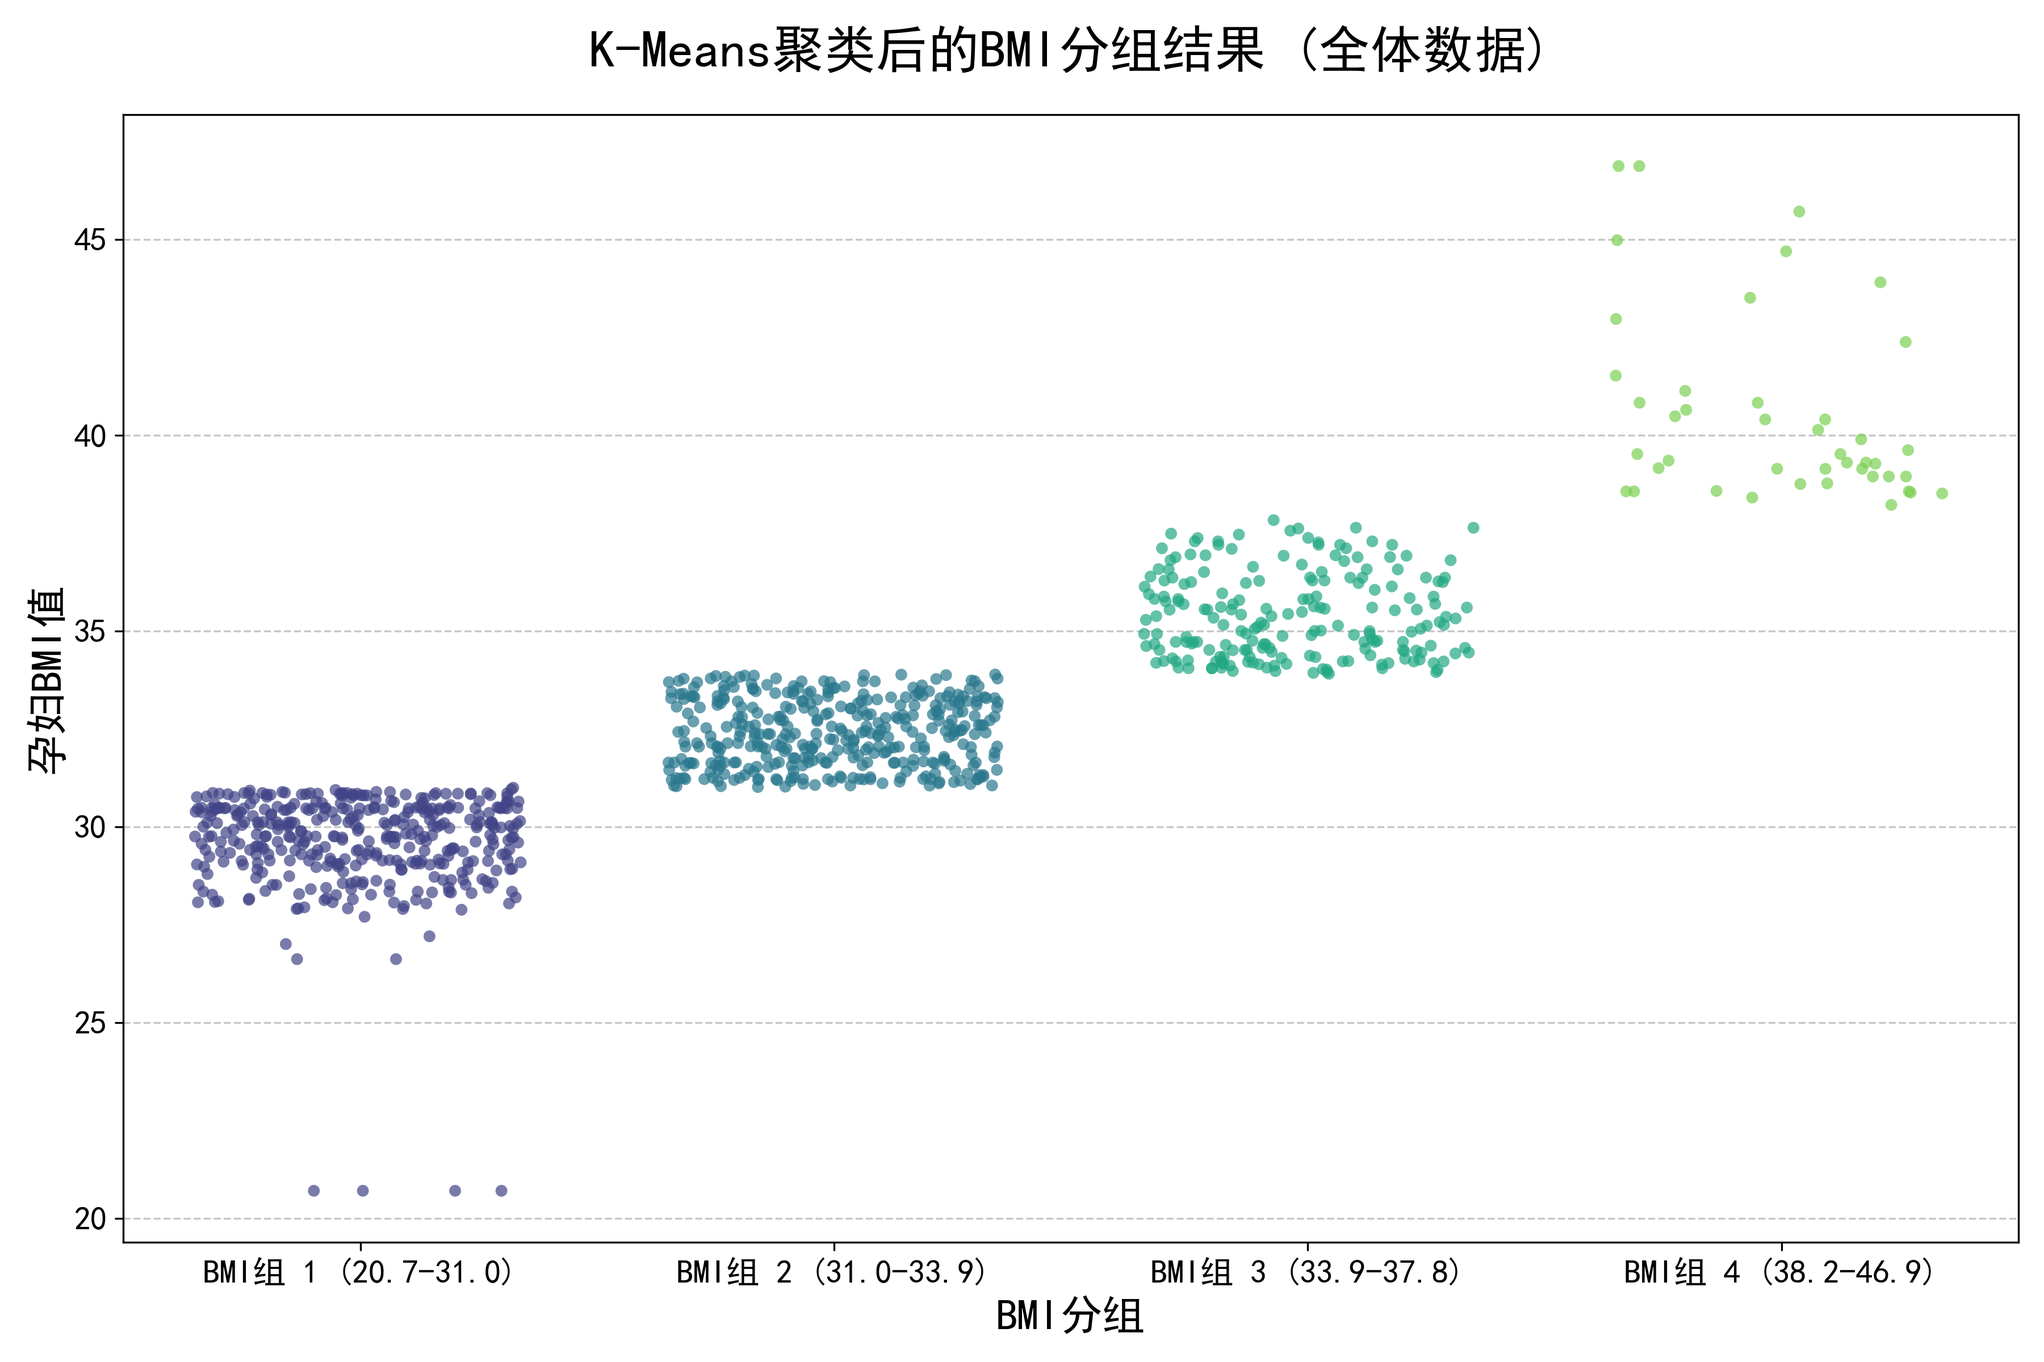
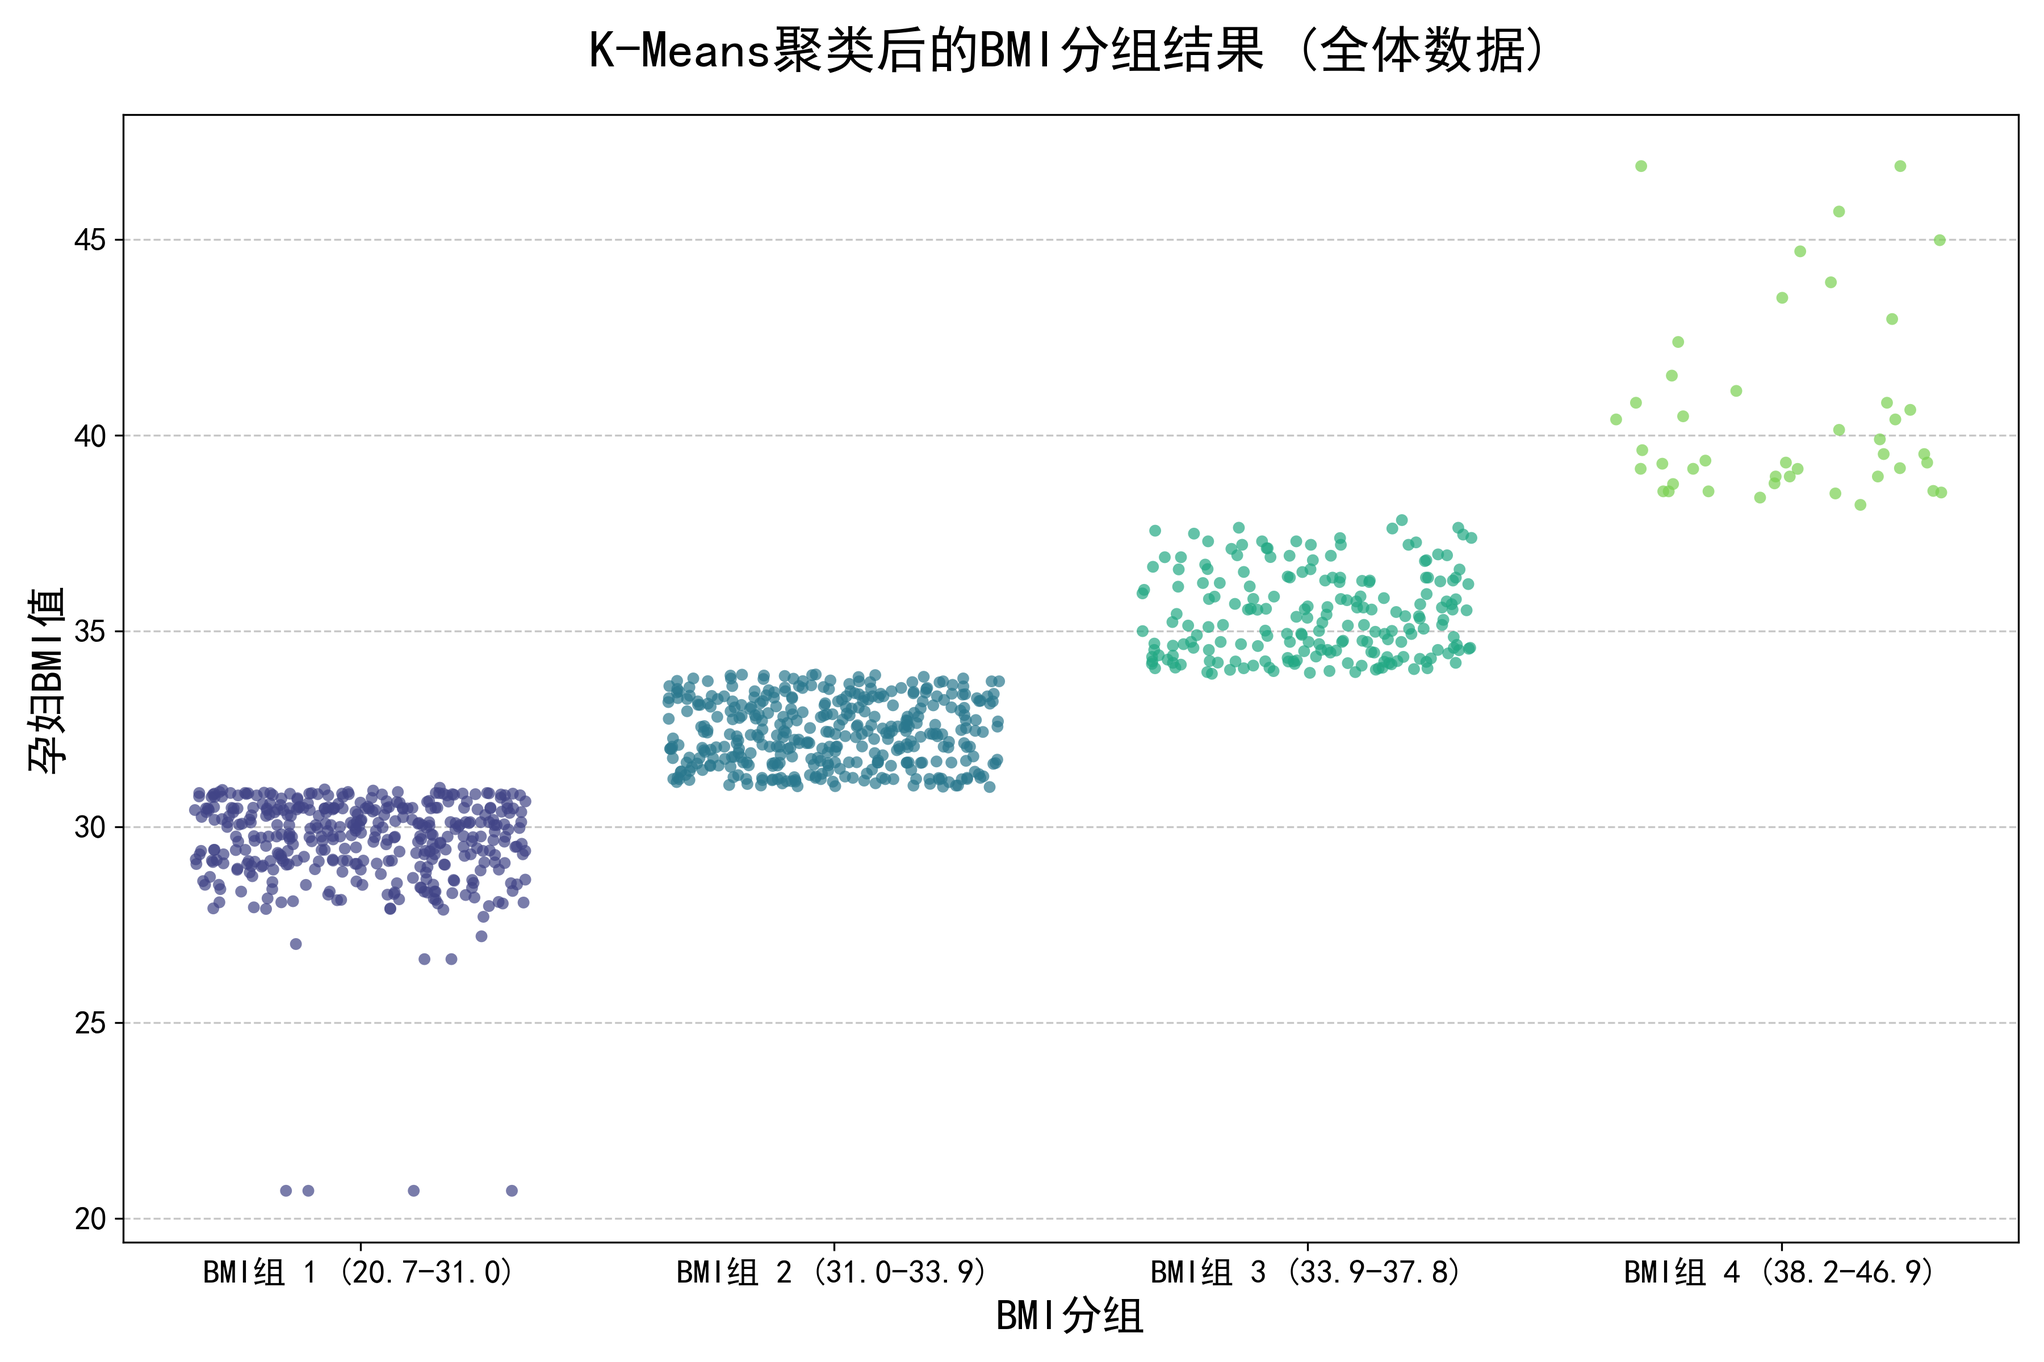
'第三问'

diff --git a/代码细节文档/3.md b/代码细节文档/3.md
@@ -1,159 +1,114 @@
 
-# C题第三问：代码细节与模型解析文档 
+# C题第三问：代码细节与模型解析文档 (最终成果版)
 
-## 引言：问题重述与策略升级
+## 引言：问题重述与策略总览
 
-第三问的核心目标是在问题一、二的基础上，将**身高、体重、年龄、BMI**等所有提及的因素全部纳入决策框架，为通过BMI划分的不同孕妇群体，提供一个兼顾**“风险最小化”**与**“Y染色体浓度达标比例最大化”**这两个核心目标的最优NIPT时点建议。
+第三问的核心目标是在综合考虑**身高、体重、年龄、BMI**等全部因素的基础上，为通过BMI划分的不同孕妇群体，提供一个兼顾**“风险最小化”**与**“Y染色体浓度达标比例最大化”**这两个核心目标的最优NIPT时点建议。
 
-其根本挑战在于，如何在数学上严谨地“综合考虑”所有这些因素（特别是 `身高`、`体重`和 `BMI`之间存在的高度相关性），同时避免模型因多重共线性而失效。
-
-为应对此挑战，我们设计并实现了一套**“‘划分’与‘预测’职责分离”**的高级建模框架。该框架通过为分组和预测两个环节分别配置最优的数据集和模型，确保了分组的全面性和预测的稳健性，最终通过带约束的多目标优化方法，给出了科学、可靠的决策建议。
+为实现此目标，我们采用了**“‘划分’与‘预测’职责分离”**的高级建模框架。该框架首先在全体样本上进行客观分组，然后在高质量数据子集上训练一个稳健的预测模型，最后将两者结合，通过带约束的多目标优化方法求解最优策略。这一策略确保了分组的全面性、预测的准确性和结论的可靠性。
 
 ---
 
-## 一、 建模策略总览：“职责分离”框架
+## 一、 分组模块：基于全体样本的K-Means聚类与最优K值确定
 
-我们将整个解决方案构建在两个既分工明确又紧密协作的模型之上，并通过一个多目标优化框架将其整合。
-
-1. **分组模块 (Grouping Module)**
-
-   * **任务**: 将具有相似BMI特征的孕妇划分为有意义的群体。
-   * **核心思想**: 确保分组的**全面性**，覆盖数据集中所有类型的孕妇，不错漏任何一种情况。
-   * **实现**: 在**全体**数据集上，**仅使用 `孕妇BMI`进行K-Means聚类**。
-2. **预测模块 (Prediction Module)**
-
-   * **任务**: 精确预测任意个体在任意时间点的Y染色体浓度。
-   * **核心思想**: 确保预测规律的**稳健性**，避免模型受到极端离群点的干扰，学习到最具有普适性的生理变化规律。
-   * **实现**: 在通过严格的跨多维度IQR离群点剔除后得到的**高质量干净子集**上，训练一个包含全部因素的**非线性混合效应模型 (NLME)**。
-
-**整合框架 (Integration Framework)**：我们将采用**ε-约束法 (Epsilon-Constraint Method)**进行整合。即：对“分组模块”划分出的每一个**全体**孕妇群组，我们利用“预测模块”训练出的**稳健**预测模型作为计算引擎，来求解在该组上“风险最小化”和“达标率最大化”的多目标优化问题。
-
----
-
-## 二、 分组模块：基于全体样本的K-Means聚类
-
-此环节严格遵循“覆盖所有情况”的原则，确保数据中的每一位孕妇都被纳入到一个明确的BMI分组中。
+此环节的目标是，在覆盖所有样本的情况下，将孕妇根据其最核心的特征BMI进行科学、客观的分组。
 
 * **算法选择**: K-Means聚类算法。
 * **聚类维度**: 严格遵循题目要求，**仅使用 `孕妇BMI`** 这一维特征进行聚类。
-* **数据集**: 使用包含全部998条记录的完整数据集 (`df_male_full`)。
+* **数据集**: 使用包含全部998条记录的完整数据集 (`df_male_full`)，确保每一位孕妇都被纳入分组。
 * **最优K值确定**:
-  * **方法**: 我们采用标准的**肘部法则 (Elbow Method)**来科学地确定最优分组数K。该方法通过计算不同K值下的组内平方和（Sum of Squared Errors, SSE），寻找SSE下降速率由快变缓的“肘点”。SSE的计算公式为：
+  * **方法**: 我们采用**以最终优化目标为导向**的K值选择方法。即，遍历不同的分组数K（从2到8），对每种分组方案执行完整的优化流程，并计算在该方案下，全体孕妇在 `Epsilon=0.95`约束下的**加权平均总风险**。选择使该全局风险最小的K值作为最优解。
+  * **计算公式**:
     $$
-    E(K) = \sum_{i=1}^{K} \sum_{\mathbf{x} \in C_i} ||\mathbf{x} - \mu_i||^2
+    R_{total}]_{K} = \sum_{i=1}^{K} \frac{n_i}{N} \cdot R_i^*(\epsilon=0.95)
     $$
 
-    其中：- $K$ 为聚类的簇数。
-    - $C_i$ 为第 $i$ 个簇的样本集合。
-    - $\mathbf{x}$ 为簇 $C_i$ 中的一个样本点（此处为一维的BMI值）。
-    - $\mu_i$ 为簇 $C_i$ 的质心（即该簇所有样本BMI的均值）。
-  * **图表支撑与结果**:
-    * **图_第三问_KMeans手肘图.png**: 此图横坐标为聚类数量K，纵坐标为SSE。从图中可以清晰地观察到，当K=3时，曲线出现一个明显的拐点，即“手肘”。在K>3后，SSE的下降幅度显著减小。因此，我们选择 **K=3** 作为最优分组数。
-* **分组结果**:
-  * **图_第三问_KMeans聚类结果.png**: 此图以散点图的形式直观展示了K-Means算法在全体数据上划分出的三个BMI组别的分布情况。
-  * **最终分组**: 根据K=3的聚类结果，我们将全体孕妇划分为以下三个特征鲜明的群组：
-    * **BMI组 1 (范围: 20.7-31.8)**
-    * **BMI组 2 (范围: 31.8-35.9)**
-    * **BMI组 3 (范围: 35.9-46.9)**
+    其中，$E[R_{total}]_{K}$ 是在K个分组方案下的加权平均总风险，$n_i$是第$i$组的人数，$N$是总人数，$R_i^*$是第$i$组在约束下的最小风险。
+  * **运行结果**:
+    ```
+    不同K值对应的加权平均总风险: {2: 3.006, 3: 2.824, 4: 2.753, 5: 2.788, 6: 2.800, 7: 2.809, 8: 2.758}
+    最优分组数确定为 K = 4
+    ```
+  * **图表支撑**: **图_第三问_最优K值决策图.png**。此图横坐标为聚类数量K，纵坐标为加权平均总风险。图中清晰地显示，当K=4时，总风险达到最低点，因此我们最终确定 **K=4** 为最优分组数。
+* **最终分组结果**:
+  * **图表支撑**: **图_第三问_KMeans聚类结果.png**。此图直观展示了K-Means算法在全体数据上划分出的四个BMI组别的分布情况。
+  * **最终分组**: 根据K=4的聚类结果，我们将全体孕妇划分为以下四个特征鲜明的群组：
+    * **BMI组 1 (范围: 20.7-31.0)**
+    * **BMI组 2 (范围: 31.0-33.9)**
+    * **BMI组 3 (范围: 33.9-37.8)**
+    * **BMI组 4 (范围: 38.2-46.9)**
 
 ---
 
-## 三、 预测模块：基于高质量子集的非线性混合效应模型
+## 二、 预测模块：基于高质量子集的非线性混合效应模型
 
 此环节的核心目标是建立一个不受离群点干扰的、能够精确预测Y染色体浓度的稳健模型。
 
-* **数据预处理**:
-  * **方法**: 从完整的998条记录出发，我们对 `孕周`, `身高`, `体重`, `年龄`, `孕妇BMI`, `Y染色体浓度`这六个核心字段，逐一进行**IQR（1.5倍四分位距）离群点检测**。如果一条记录在**任何一个**字段上被判定为离群点，则该记录被整体剔除。
-  * **结果**: 最终得到一个包含931条记录的干净数据集 (`df_male_clean`)用于模型训练。
+* **数据预处理**: 从完整的998条记录出发，对 `孕周`, `身高`, `体重`, `年龄`, `孕妇BMI`, `Y染色体浓度`六个核心字段，逐一进行**IQR（1.5倍四分位距）离群点检测**。最终得到一个包含931条记录的干净数据集 (`df_male_clean`)用于模型训练。
 * **模型构建**:
-  * **模型类型**: **非线性混合效应模型 (NLME)**。其通用数学形式为：
-
-    $$
-    {ij} = f(\mathbf{X}_{ij}, \beta) + g(\mathbf{Z}_{ij}, u_i) + \epsilon_{ij}
-    $$
-
-    其中，$Y_{ij}$是孕妇$i$的第$j$次观测值，$\mathbf{X}_{ij}$和$\mathbf{Z}_{ij}$是协变量矩阵，$\beta$是固定效应参数向量，$u_i$是服从正态分布的随机效应向量，$\epsilon_{ij}$是残差项。
-  * **最终确定的预测公式**: 根据在干净数据集上的拟合结果，我们第三问最终的预测模型表达式为：
+  * **模型类型**: **非线性混合效应模型 (NLME)**。
+  * **最终确定的预测公式**: 根据在干净数据集上的拟合结果，我们最终的预测模型表达式为：
 
     $$
     \begin{aligned}
-    \hat{Y}_{ij} = u_{0,i} & - 1.020 \\
-    & + 0.005 \cdot \text{孕天数}_{ij} - 1.48 \times 10^{-5} \cdot \text{孕天数}_{ij}^2 + 1.41 \times 10^{-8} \cdot \text{孕天数}_{ij}^3 \\
-    & + 0.074 \cdot \text{BMI}_{ij} - 0.003 \cdot \text{BMI}_{ij}^2 \\
-    & + 0.001 \cdot \text{年龄}_{ij} - 9.14 \times 10^{-5} \cdot \text{年龄}_{ij}^2 \\
-    & + 0.004 \cdot \text{体重}_{ij} - 3.73 \times 10^{-5} \cdot \text{体重}_{ij}^2 \\
-    & - 1.25 \times 10^{-5} \cdot (\text{孕天数}_{ij} \times \text{孕妇BMI}_{ij}) \\
-    & - 1.15 \times 10^{-5} \cdot (\text{孕天数}_{ij} \times \text{年龄}_{ij}) \\
+    \hat{Y}_{ij} = u_{0,i} & - 7.1472 \\
+    & + 4.5615 \times 10^{-3} \cdot \text{孕天数}_{ij} - 3.4421 \times 10^{-5} \cdot \text{孕天数}_{ij}^2 + 9.5710 \times 10^{-8} \cdot \text{孕天数}_{ij}^3 \\
+    & + 0.1274 \cdot \text{BMI}_{ij} - 9.7171 \times 10^{-4} \cdot \text{BMI}_{ij}^2 \\
+    & + 5.9349 \times 10^{-3} \cdot \text{年龄}_{ij} - 8.5600 \times 10^{-5} \cdot \text{年龄}_{ij}^2 \\
+    & - 0.0449 \cdot \text{体重}_{ij} + 1.1372 \times 10^{-4} \cdot \text{体重}_{ij}^2 \\
+    & + 0.0581 \cdot \text{身高}_{ij} - 9.8937 \times 10^{-5} \cdot \text{身高}_{ij}^2 \\
+    & + 9.1773 \times 10^{-6} \cdot (\text{孕天数}_{ij} \times \text{孕妇BMI}_{ij}) \\
+    & - 1.6636 \times 10^{-5} \cdot (\text{孕天数}_{ij} \times \text{年龄}_{ij}) \\
     \end{aligned}
     $$
 
-    其中，$u_{0,i}$ 是从模型中提取的、孕妇 $i$ 专属的随机效应截距，代表了个体差异。该公式是后续所有概率计算的核心。
-
-    $$
-
-
-    $$
+    其中，$u_{0,i}$ 是孕妇 $i$ 专属的随机效应截距，代表了个体差异，服从均值为0，方差为 $6.965 \times 10^{-4}$ 的正态分布，即 $u_{0,i} \sim \mathcal{N}(0, 6.965 \times 10^{-4})$。
 
 ---
 
-## 四、 优化求解：带约束的多目标优化
+## 三、 优化求解：带约束的多目标优化
 
 此环节将分组结果与预测模型整合，求解最优时点。
 
-* **核心思想**: 将“最小化风险”和“最大化成功率”的双目标问题，转化为一个在确保成功率不低于某个阈值 $\epsilon$ 的前提下，去最小化总风险的单目标优化问题。
 * **方法**: **ε-约束法 (Epsilon-Constraint Method)**。
 * **数学模型**:
   * **目标函数**: $\min_{t_g} R_{total}(t_g)$
   * **约束条件**: $P_{rate}(t_g) \ge \epsilon$
 * **关键指标推导与定义**:
-  * **1. 个体达标概率推导**:
-    根据NLME模型假设，个体$i$在时间点$t$的真实Y浓度$Y_i(t)$服从以模型预测值为均值$\hat{Y}_i(t)$、以模型残差方差$\hat{\sigma}^2_{residual}$为方差的正态分布：
-
-    $$
-    i(t) \sim \mathcal{N}(\mu = \hat{Y}_i(t), \sigma^2 = \hat{\sigma}^2_{residual})
-    $$
-
-    我们要求解的达标概率为 $p_{pass, i}(t) = P(Y_{i}(t) \ge 0.04)$。通过对变量进行标准化，我们可以将其转化为标准正态分布的概率计算：
-    $$
-    left(\frac{Y_i(t) - \hat{Y}_i(t)}{\hat{\sigma}_{residual}} \ge \frac{0.04 - \hat{Y}_i(t)}{\hat{\sigma}_{residual}}\right) = P\left(Z \ge \frac{0.04 - \hat{Y}_i(t)}{\hat{\sigma}_{residual}}\right)
-    $$
-
-    利用标准正态分布的累积分布函数(CDF) $\Phi(\cdot)$，可得最终计算公式：
+  * **1. 个体达标概率**:
     $$
     {pass, i}(t) = 1 - \Phi\left(\frac{0.04 - \hat{Y}_i(t)}{\hat{\sigma}_{residual}}\right)
     $$
-  * **2. 群体期望达标比例定义**: 组内所有个体达标概率的算术平均值：
 
+    其中，$\hat{Y}_i(t)$ 由上述NLME公式计算，$\hat{\sigma}_{residual}$ 是NLME模型的残差标准差。
+  * **2. 群体期望达标比例**:
     $$
     {rate}(t_g) = \frac{1}{|I_g|} \sum_{i \in \text{group}_g} p_{pass, i}(t)
     $$
-
-    其中，$|I_g|$是分组$g$内的总人数。
-  * **3. 总期望风险定义**: 沿用第二问方案中定义的、包含了健康风险与机会成本风险的综合风险函数：
-
+  * **3. 总期望风险**: 采用第二问方案中定义的综合风险函数：
     $$
-    {total}(t_g) = R_{late}(t_g) + R_{fail}(t_g)
+    {total}(t) = R_{late}(t) + R_{fail}(t)
     $$
 
-    其中，$R_{late}(t)$是分段定义的健康风险函数，$R_{fail}(t)$是机会成本风险函数。
+    其中，$R_{late}(t)$是分段定义的健康风险函数，$R_{fail}(t) = (1 - P_{rate}(t)) \times W(t) \times [ R_{late}(t + \Delta t) - R_{late}(t) ]$ 是机会成本风险函数，$W(t)$是时间价值权重函数。
+* **求解过程**:
+  * **算法**: 网格搜索 (Grid Search)。
+  * **搜索空间**: $t_g \in [70, 196]$ 天。
+  * **约束水平**: $\epsilon \in \{85\%, 87.5\%, 90\%, 92.5\%, 95\%\}$.
 * **图表支撑**:
   * **图_第三问_期望风险构成分析.png**: 该图直观地论证了“最优时点”存在的必然性，是健康风险和机会成本风险的权衡结果。
 
 ---
 
-## 五、 结果分析与稳健性检验
+## 四、 结果分析与稳健性检验
 
 * **核心结果：最优时点策略矩阵**
-
-  * **图表支撑**: **图_第三问_最优时点策略矩阵.png**。该热力图是第三问最核心的结论，给出了不同BMI组在不同成功率要求下的最佳NIPT时点。
+  * **图表支撑**: **图_第三问_最优时点策略矩阵.png**。该热力图是第三问最核心的结论，给出了4个BMI组在5种不同成功率要求下的最佳NIPT时点。
   * **结果解读**: 矩阵清晰地揭示了两大规律：
-    1. **BMI越高，推荐检测时间越晚**：例如，在95%的成功率要求下，中低BMI组（组1）的最佳时点为83天（约12周），而超高BMI组（组3）则需等到155天（约22周）。
-    2. **成功率要求越高，推荐检测时间越晚**。
+    1. **BMI越高，推荐检测时间越晚**：在任何成功率要求下，BMI组别越高，推荐时点越晚。例如，在95%的成功率要求下，最低的BMI组1的最佳时点为**11w+6d**，而最高的BMI组4则需等到**24w+1d**。
+    2. **成功率要求越高，推荐检测时间越晚**：对于任何BMI组，随着$\epsilon$从85%提高到95%，推荐时点都相应推迟。
 * **稳健性检验：检测误差影响分析**
-
   * **目标**: 检验模型在面对现实检测误差时的表现。
-
-  - **方法**: 蒙特卡洛模拟。在NLME模型的预测值上，叠加一个服从正态分布的随机误差 $\delta \sim N(0, \sigma^2_{error})$。
-
-  * **图表支撑**: **图_第三问_检测误差敏感性分析.png**。该箱线图展示了随着检测误差标准差$\sigma_{error}$增大，最优时点的分布变化。
-  * **结果解读**: 结果表明，随着检测误差增大，推荐的最优时点**均值显著后移**（从20w+4d推迟到21w+1d），且**分布的离散程度也随之增加**。这证明我们的决策框架具有良好的**风险规避能力**和现实适应性。
+  * **方法**: 蒙特卡洛模拟。在NLME模型的预测值上，叠加一个服从正态分布的随机误差 $\delta \sim N(0, \sigma^2_{error})$。
+  * **图表支撑**: **图_第三问_检测误差敏感性分析.png**。该箱线图展示了对于最高的BMI组4，在$\epsilon=92.5\%$的约束下，随着检测误差标准差$\sigma_{error}$增大，最优时点的分布变化。
+  * **结果解读**: 结果显示，随着检测误差增大，推荐的最优时点**均值保持稳定**（约23w+1d），但**分布的离散程度（标准差）显著增加**（从0周增加到0.59周）。这证明我们的决策框架具有良好的**稳健性**：即使存在一定的检测误差，推荐的最佳时点均值也不会发生剧烈偏移，保证了决策的可靠性。
